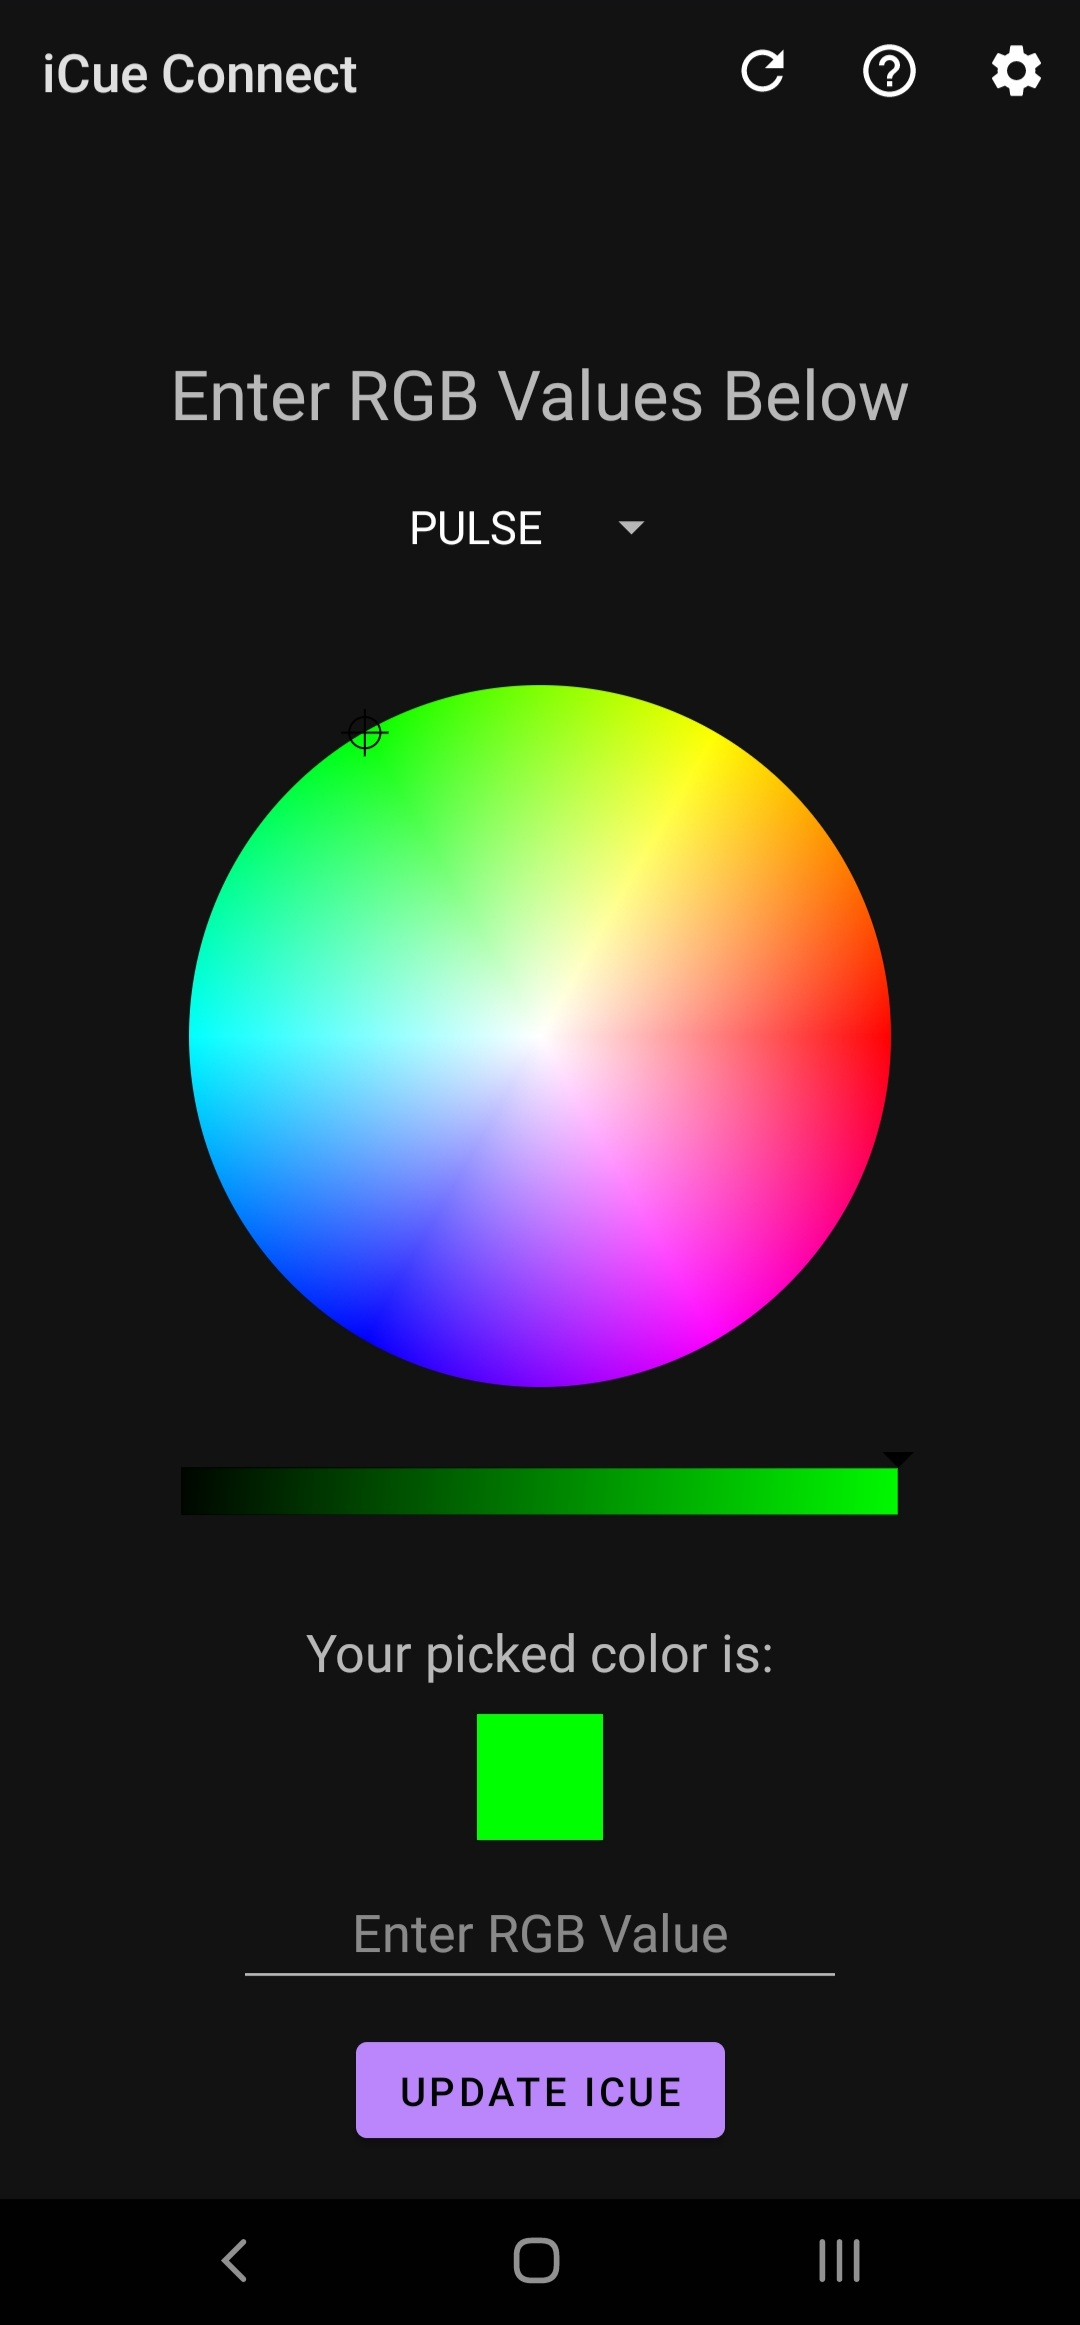
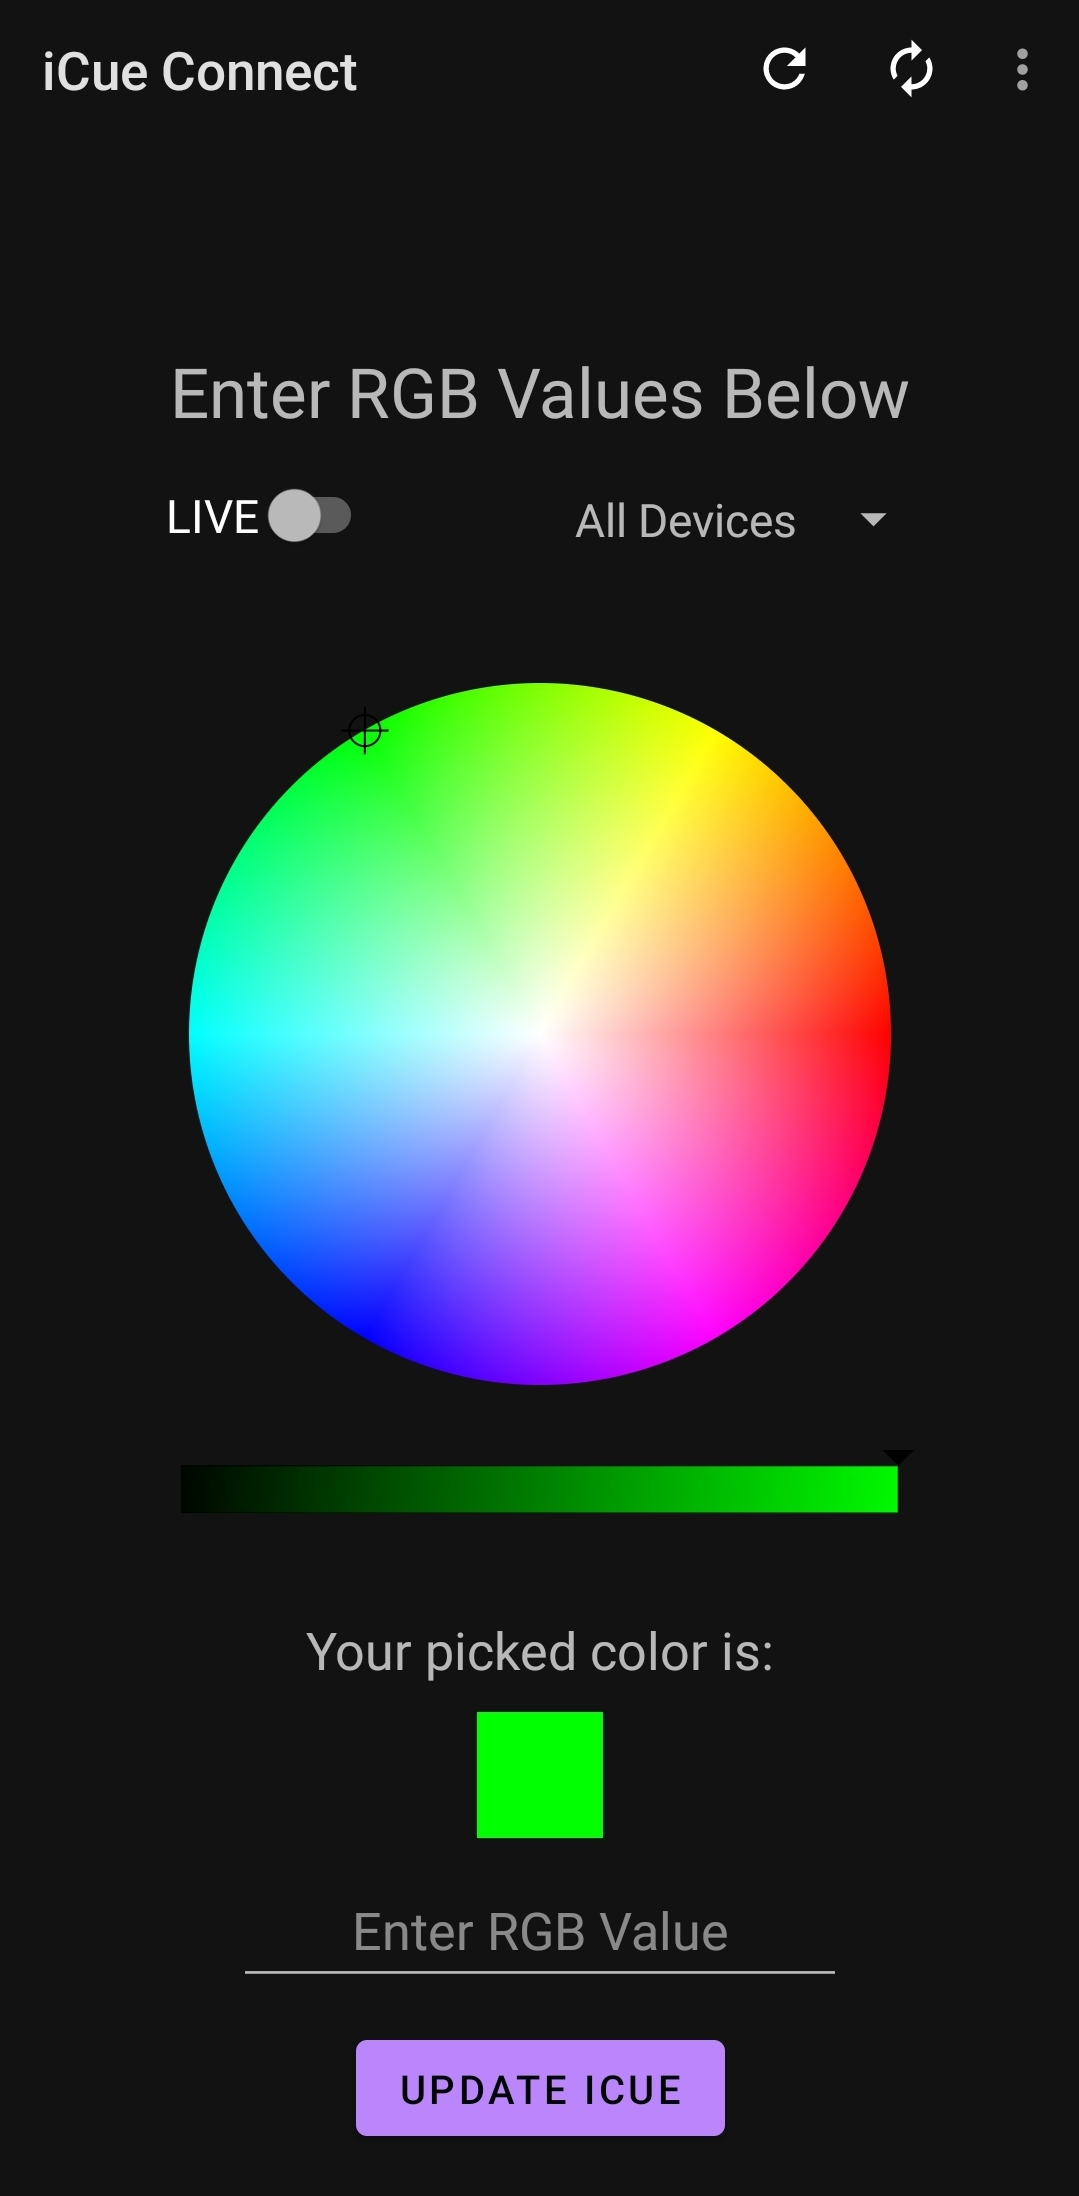
Updated Readme

diff --git a/README.md b/README.md
@@ -9,9 +9,9 @@ iCueConnect-Android is an Android app that allows you to control your Corsair iC
 ## Requirements
 * You will need iCue installed and running on your windows machine.
 * You will need to download and configure the iCueConnect-API on your windows machine.
-* You will have to have configured all your Corsair devices through iCue.
+* You will have to have configured all your Corsair devices through iCUE.
 * In order for iCueConnect-Android App to communicate with [iCueConnect-API](https://github.com/ScreamingOranges/iCueConnect-API) and set the LEDs accordingly, both devices must be connected to the internet.
-* Lastly you will have to check the **Enable SDK** option in iCue's Settings.
+* Lastly you will have to check the **Enable SDK** option in iCUE's Settings.
 <p align="center">
   <img src="https://help.corsair.com/hc/article_attachments/360072361252/iCUE_SDK_enabled.jpg" width="800px">
 </p>
@@ -45,38 +45,38 @@ iCueConnect uses Pusher for realtime communication between iCueConnect-Android A
 5. Save these values. We will need them later.
 
 ### Configuring iCueConnect on Android 
-1. First make sure that you downloaded and configured the iCueConnect-API. **If you did not do this, the app will not work**.
-2. Open iCueConnect on Android and click the settings icon in the top right corner. <img align="right" style="padding-left:20px" src="./readmeImages/settings_icon.jpg" width="200px">
+1. Make sure that you downloaded and configured the iCueConnect-API. **If you did not do this, the app will not work**.
+2. Open iCueConnect on Android and click Setting from the menu in the top right corner.
 3. In the fields enter the associated values that we got from creating a Pusher account. <br/> **DO NOT ENTER THE QUOTATION MARKS, ONLY ENTER THE TEXT**
 4. Click the **SAVE** button to set the values.
     > Note: If you enter an incorrect value for any of the fields, simply update the values in the fields and click the **SAVE** button again.
 
 ## How To Use
-When you first open the app you will be presented with the right most image.<br> 
-This is the main page where you can manually control your LEDs.<br>
+When you first open the app you will be presented with the homepage.<br> 
+This is the main page where you can control your LEDs.<br>
 
 <img align="right" style="padding-left:20px" src="./readmeImages/main_activity_default.jpg" width="250px">
 
 ### The Menu Bar 
-* The menu bar is the main way to navigate through out the app, and only has three buttons. <br><br>
-<img src="./readmeImages/reset_control_icon.jpg" height="70px"> <img src="./readmeImages/help_icon.jpg" height="70px"> <img src="./readmeImages/settings_icon.jpg" height="70px">
+* The menu bar is the main way to navigate throughout the app, and only has four buttons. <br>
 
 1. **Revert Control** 
    * This reverts LED control back to iCue. 
-   * For example, if you set the LEDs to a color using the **LIVE** or **SOLID** option, then they will stay that color unless you click this button.
-2. **Help**  
+   * For example, if you set the LEDs to a color, then they will stay that color unless you click this button.
+2. **Sync Devices**
+   * This sends a request to the iCueConnect API for all the devices configured via iCUE. Once the information is received it populates the drop down.
+3. **Help**  
    * This button redirects to a page shows the readme file for the iCueConnect-Android app.
-3. **Settings**
+4. **Settings**
    * This button redirects to the previously mentioned [Setting Up Pusher](#setting-up-pusher) section.
 
 ### Controlling LEDs
-  1. Select an option from the dropdown below the **Enter RGB Values Below** title where the following options will appear.<br/> 
-       * **Pulse** :  Pulses the LEDs and then goes back to iCUE's selected color. 
-       * **SOLID** : Sets the LEDs to color of your choice and stays that color.
-       * **LIVE** : This is works the same way that the SOLID option does, except that the color of your LEDs are automatically set.
-  2. Use the color wheel to select the color of your choice. You can preview the color of your choice via the color square.
-  3. Use the horizontal bar to select the brightness. 
-  4. **(OPTIONAL)** Instead of using the color wheel and the brightness bar, you can enter RGB values in the input field. Each value should be from 0 to 255, and should be separated by a space. For example:
+  1. Select an option from the dropdown below the **Enter RGB Values Below** title where all your devices will appear. If only *All Devices* appears, then you will need to sync your devices (make sure the iCue Connect API is updated and running).<br/> 
+  2. Toggle the *LIVE* switch to update your computers Leds in realtime.
+        > Note: Pusher limits you to 200,000 messages a day with the free plan, and using the *LIVE* option eats through that. You can check how many messages you sent under the *Overview* tab for your account's app on pusher's website.
+  3. Use the color wheel to select the color of your choice. You can preview the color of your choice via the color square.
+  4. Use the horizontal bar to select the brightness. 
+  5. **(OPTIONAL)** Instead of using the color wheel and the brightness bar, you can enter RGB values in the input field. Each value should be from 0 to 255, and should be separated by a space. For example:
       * Passing the color RED
         ```
         255 0 0
@@ -89,7 +89,6 @@ This is the main page where you can manually control your LEDs.<br>
         ```
         0 0 255
         ```
-   5. If you selected **LIVE** from the dropdown, then you can skip this step since the **UPDATE ICUE** button is pointless. However if you chose another option, then when you are done choosing a color either by the color wheel, or by the RGB Value input field, press the **UPDATE ICUE** button to set your LEDs to your color of choice.
 
 ### Notification LEDs
 This option can be enabled from the **Notification Leds** option in the android app's settings page.
@@ -97,6 +96,7 @@ This option can be enabled from the **Notification Leds** option in the android 
 
 ## Help
 * Leds not updating according to your phones selection? Follow these trouble shooting steps.
+    * Select the **Test** button from the iCue Connect API.
     * Make sure that iCue is running in the background and that the **Enable SDK** option is set in the settings.
     * Sometimes iCue will need to be reopened. Try that.
     * Make sure your Pusher credentials are correct on both devices. 
@@ -112,10 +112,6 @@ This option can be enabled from the **Notification Leds** option in the android 
 ## Disclaimer 
 **I do work for nor did I partner up with Corsair to produce this application. I am simply an enthusiast who just wanted to bring an idea to life.**
 
-## Version History
-* 1.0
-    * Initial Release
-
 # For Developers
 
 ## Utilized Dependencies 
@@ -126,7 +122,9 @@ This option can be enabled from the **Notification Leds** option in the android 
 * androidx.test.ext:junit:1.1.2
 * androidx.test.espresso:espresso-core:3.3.0
 * com.pusher:pusher-http-java:1.2.0
+* com.pusher:pusher-java-client:2.2.6
 * androidx.localbroadcastmanager:localbroadcastmanager:1.0.0
 * com.google.code.gson:gson:2.8.6
 * com.github.duanhong169:colorpicker:1.1.6
 * androidx.palette:palette:1.0.0
+* group: 'com.fasterxml.jackson.core', name: 'jackson-databind', version: '2.11.3'
